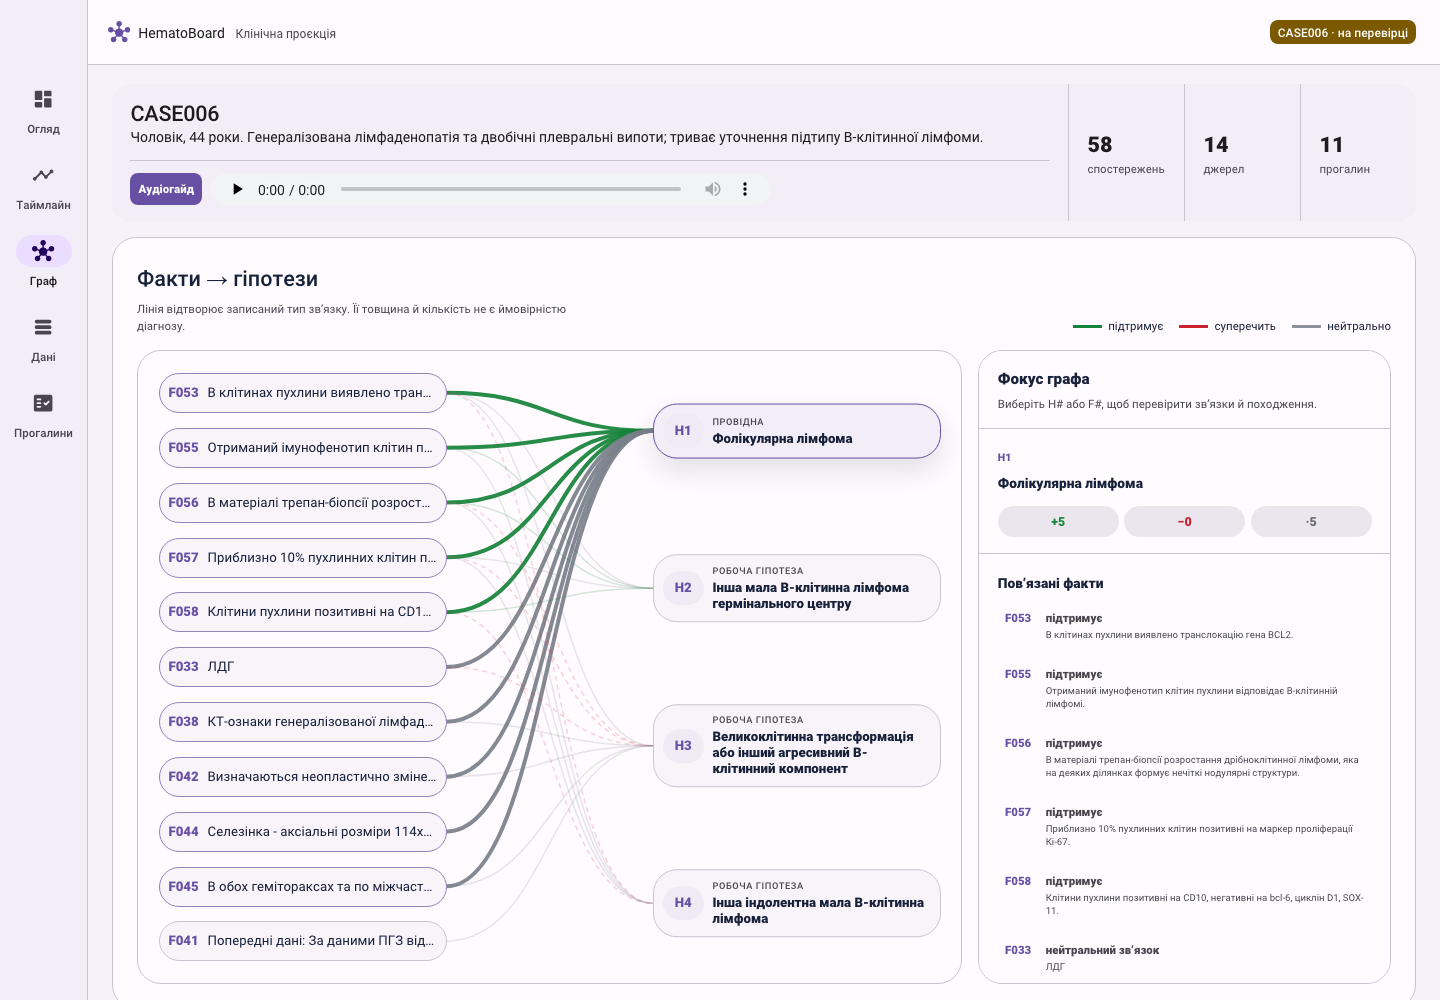
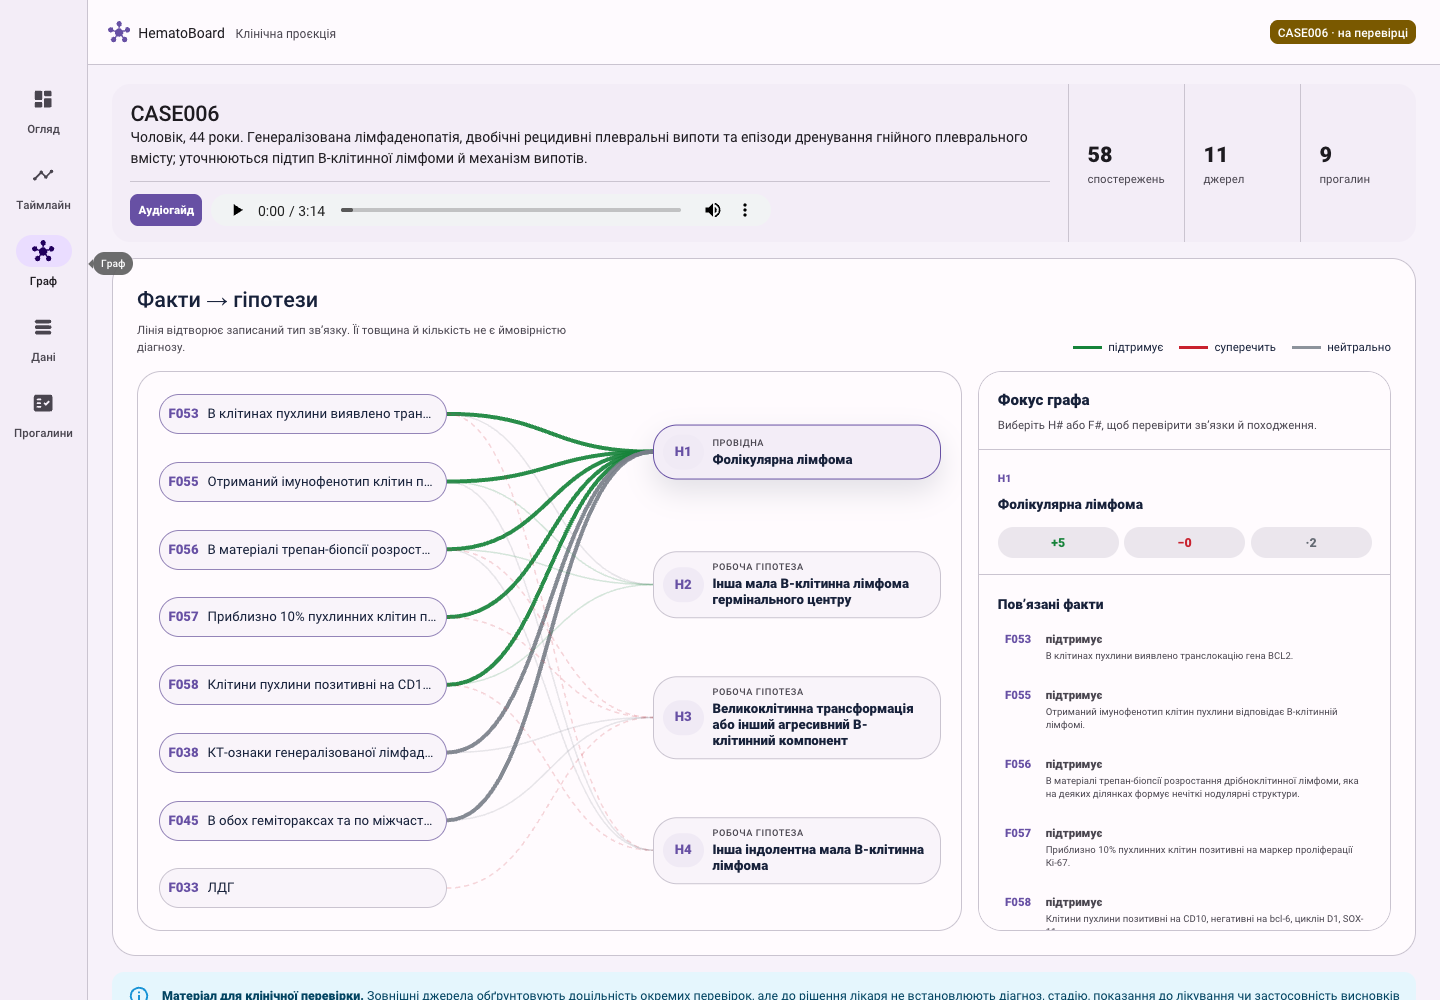
Update article to current CASE006 release (#30)

diff --git a/README.md b/README.md
@@ -91,6 +91,13 @@ without a reliable clinical date. The graph exposes typed fact-to-hypothesis
 relations without compressing them into an opaque probability. Together they
 provide three readings of the same hash-pinned material.
 
+The current reference release contains 58 source-linked observations, 11
+admitted external evidence records, nine explicit gaps and a 3:14 Ukrainian
+audio briefing for pre-consilium review. It is pinned to reasoning revision
+`RR-CASE006-3d72544bd826`; the candidate remains pending clinician review. The
+exact bundle, reasoning, projection and dashboard-build hashes are recorded in
+the [public artifact manifest](./diagrams/manifest.json).
+
 ## Clinical reasoning as a provenance problem
 
 A difficult hematology case often spans several institutions, laboratories,
@@ -120,6 +127,15 @@ fact, alter a source receipt or record a clinician decision. A separate
 clinician review surface opens proposed changes together with their supporting
 records. Accepted changes create a new hash-pinned ledger revision and preserve
 the earlier state.
+
+Every visible patient-record address uses one case-agnostic navigation
+contract: `case_id + observation_id`. In the public demonstrator it opens the
+corresponding de-identified structured record. In the controlled clinical
+workspace the same action opens an adjacent private viewer at the exact
+hash-verified PDF page and highlights the recorded bounding box. Raw patient
+PDFs never enter the public build. External `E#` and `E-CAND-*` references use
+validated HTTP(S) destinations or remain inside their licensed local evidence
+contour; they are never routed as patient documents.
 
 The resulting architecture is close to the entity–activity–agent logic of W3C
 PROV-O, adapted to a smaller clinical contract. The central objects are source
@@ -233,7 +249,8 @@ source correction, evidence questions and revised accepted states.
    or evidence corpus.
 8. **Run grounding.** Narrow questions guide retrieval from PubMed, DOI records,
    professional societies, classifications and permitted local guideline
-   corpora. Accepted and rejected sources, proposition mappings, applicability
+   corpora. An agent receives only exact-hash corpus entries admitted for model
+   context. Accepted and rejected sources, proposition mappings, applicability
    limits and the stopping condition receive receipts.
 9. **Run reconciliation.** Only after grounding does the system compare the new
    candidate field with the prior revision. Every retained, added, merged,
@@ -247,15 +264,12 @@ source correction, evidence questions and revised accepted states.
     snapshot, pass receipts, manifest and append-only audit chain.
 12. **Verify a detached projection.** Static source-of-truth checks and a real
     browser DOM audit compare the accepted ledger and complete candidate against
-    the rendered Material dashboard. Projection failure does not rewrite the
-    already published candidate.
+    the rendered Material dashboard, including the universal patient-source link
+    contract. Projection failure does not rewrite the already published
+    candidate.
 13. **Record the clinician decision.** The clinician can accept, correct, reject
     or defer proposed changes. Only acceptance or correction under an explicit
     recorded action can create a new accepted ledger revision.
-
-The clinician can accept, correct, reject or defer proposed changes. Acceptance
-creates a new ledger revision. Rejection and deferral preserve the candidate,
-its evidence and the decision rationale as audit history.
 
 ### Router modes
 
@@ -293,6 +307,7 @@ bounded reasoning roles; runtime surfaces identify deterministic controls.
 | Source review | **Terra visual readers** with deterministic consensus | Reads bounded privacy-screened crops and replays exact word IDs into fields | Field consensus or targeted exception |
 | Routing | HematoBoard router and CaseScope | Resolves the one permitted mode and binds every artifact to one case, bundle, revision and operation | CaseScope receipt |
 | Clinical state | Accepted evidence ledger | Stores versioned measurements, findings, dates, interpretations and provenance | Canonical `case_bundle.json` revision |
+| Source navigation | Universal patient-source resolver and private viewer | Resolves `case_id + observation_id`; opens a de-identified public record or an exact local PDF page and bounding box | Auditable source-open action without public PDF access |
 | Breadth pass | Context-shielded synthesis execution | Builds the initial candidate field without prior reasoning or external literature | `passes/01-breadth.json` |
 | Grounding pass | Research execution and source reviewer | Finds narrow external propositions, records rejected sources and proves search saturation | `passes/02-grounding.json` |
 | Reconciliation pass | Controlled synthesis execution | Maps every previous and current hypothesis without identifier reassignment | `passes/03-reconciliation.json` |
@@ -349,6 +364,15 @@ Prepared guideline corpora may use a case-local SQLite full-text index to locate
 terms and passages. Full-text search has a retrieval role. Source interpretation
 and applicability remain separate reviewed activities. Documents with
 restrictive licences stay within the local workspace.
+
+Corpus admission is fail-closed. A source can enter agent context only when its
+exact bytes match the admission manifest and `agent_context_allowed=true`.
+Licensed NCCN documents supplied with institutional permission remain in a
+separate local contour and require an exact-hash operator authorization receipt
+for each agent route. Retrieval from that contour still produces candidate
+evidence with `human_verified=false` and `clinician_review_pending=true`; the
+clinician judges its case applicability together with the complete synthesis
+package.
 
 Guideline quality and reporting can be appraised with instruments such as AGREE
 II (Brouwers et al., 2010). Disease-specific classifications and practice
@@ -428,10 +452,13 @@ for AI in health set out by the World Health Organization (2021).
 HematoBoard is in controlled clinician-in-the-loop testing with prepared,
 de-identified case packages. Current evaluation concerns source reconstruction,
 measurement transfer, evidence traceability, protocol-2.0 method conformance,
-reasoning freshness, detached projection closure and clinician-facing review
-ergonomics. The public Material dashboard currently presents de-identified
-CASE006 as an accepted source ledger plus a separate candidate interpretation;
-the candidate has not been clinically accepted.
+reasoning freshness, exact-hash evidence admission, patient-source navigation,
+detached projection closure and clinician-facing review ergonomics. The public
+Material dashboard currently presents de-identified CASE006 as an accepted
+source ledger plus a separate candidate interpretation. The current release is
+reasoning revision `RR-CASE006-3d72544bd826`, with 58 observations, 11 admitted
+external sources and nine explicit gaps; the candidate has not been clinically
+accepted.
 
 External clinical validation, prospective effectiveness evaluation, regulatory
 qualification and deployment performance remain future stages. Planned studies
@@ -449,11 +476,14 @@ of the treating team after review of the complete primary record.
 
 ## Public interface and controlled runtime
 
-This repository publishes the research article, current Material screenshots and
-the version-pinned architecture figure. The de-identified read-only demonstrator
-is available at <https://esannikov.github.io/hematoboard/?case=case006>.
-Clinical case packages, private dashboard inputs, source-review tools and
-clinician-acceptance state remain within the controlled development environment.
+This repository publishes the research article, current Material screenshots,
+the version-pinned architecture figure and a manifest bound to the current
+CASE006 reasoning and projection receipts. The de-identified read-only
+demonstrator is available at
+<https://esannikov.github.io/hematoboard/?case=case006>. Clinical case packages,
+private dashboard inputs, licensed guideline files, the adjacent PDF source
+viewer and clinician-acceptance state remain within the controlled development
+environment.
 
 Reusable schemas, validators and a sanitized reference pipeline are planned for
 a later code release after the interfaces and privacy boundary stabilize.
